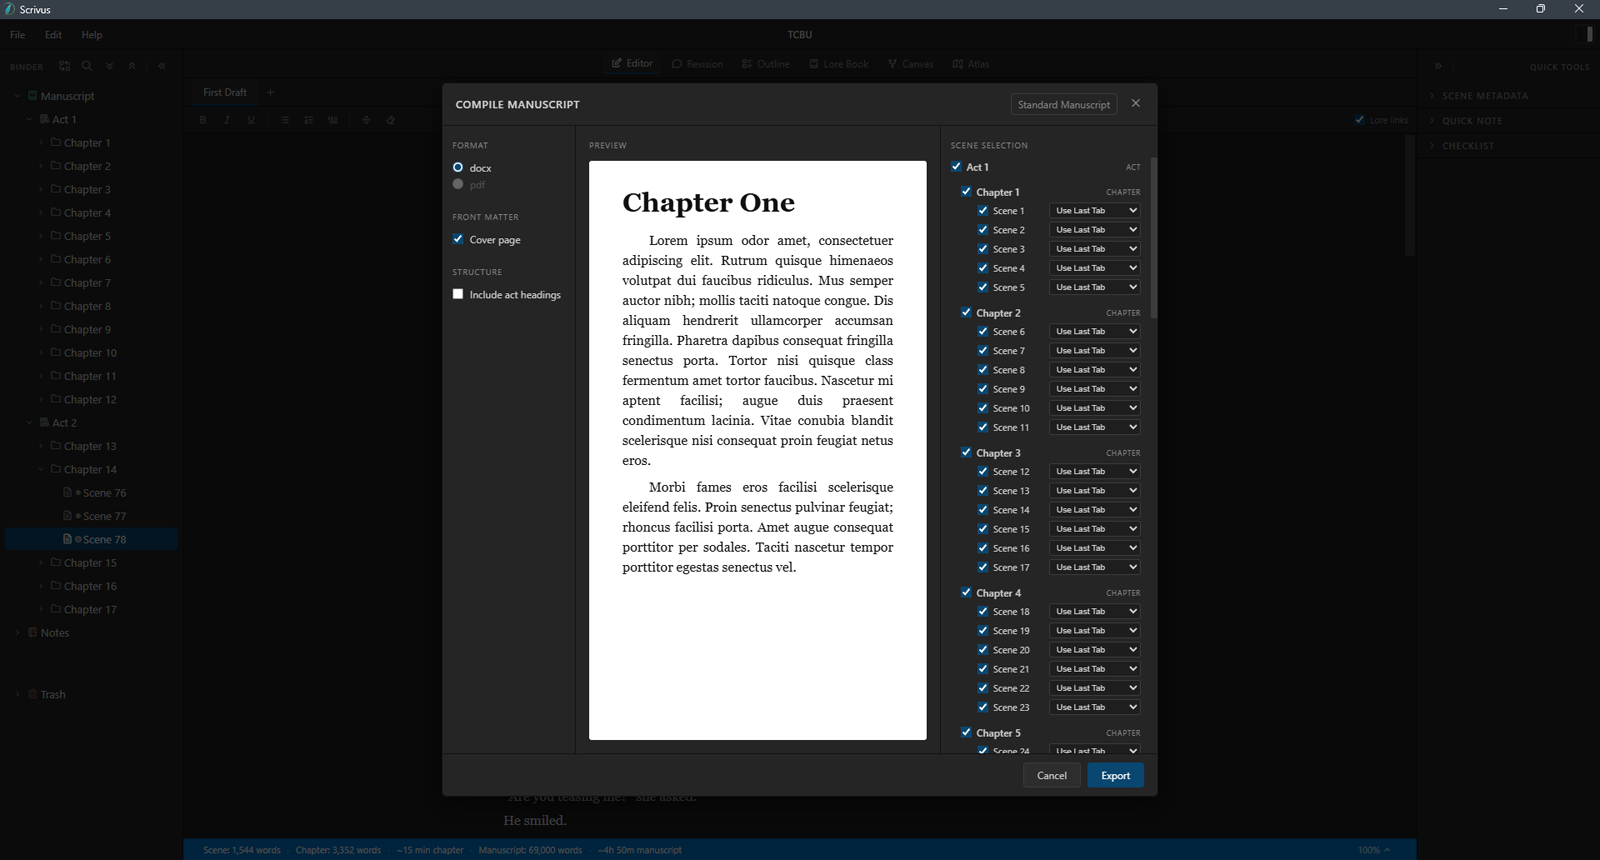
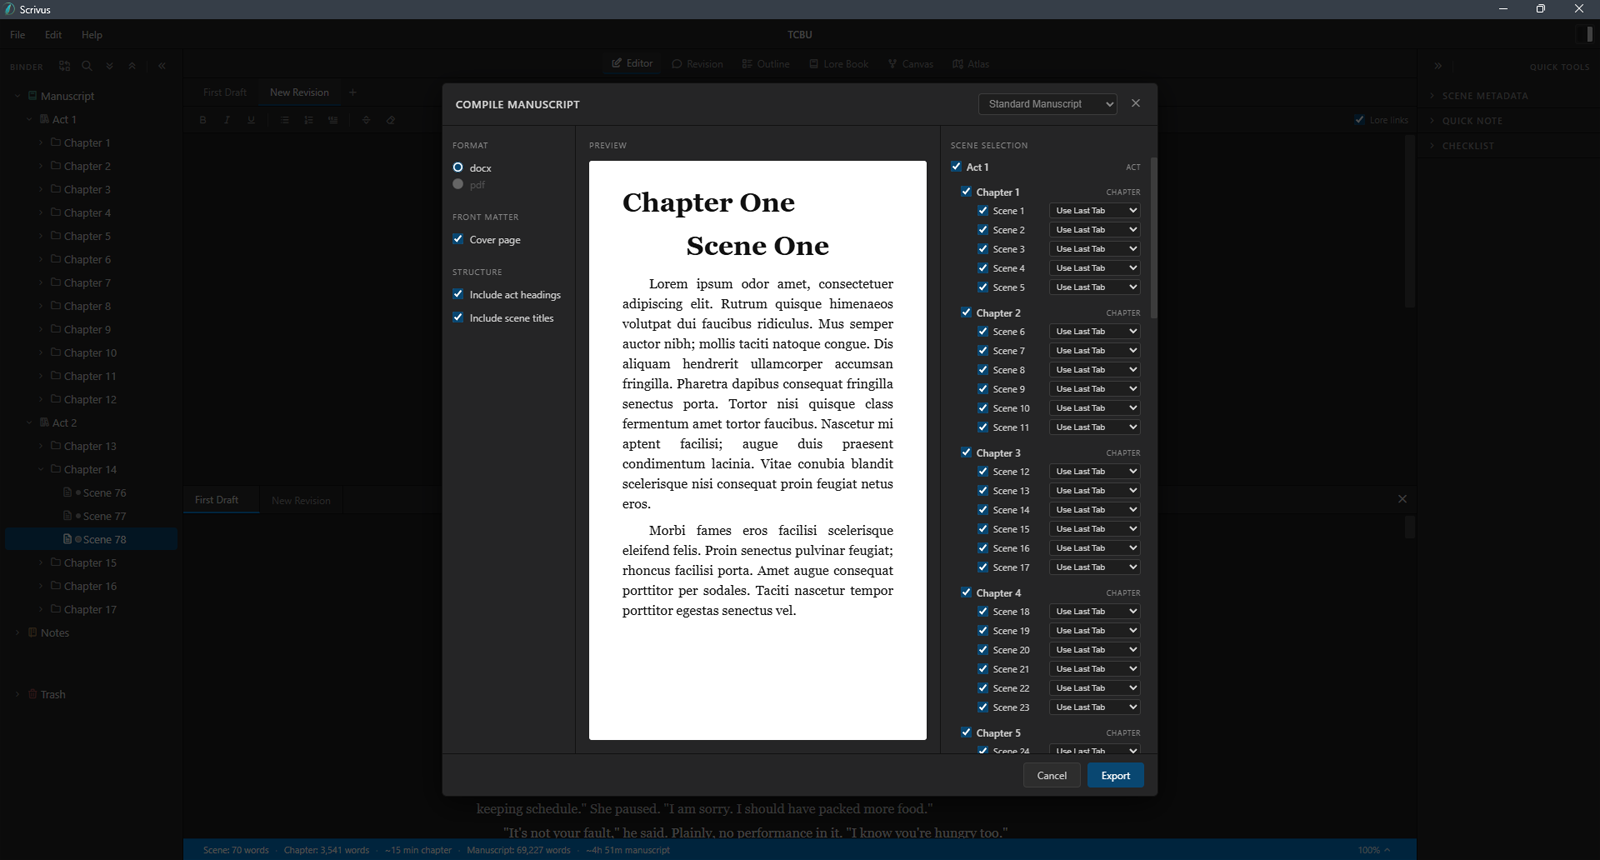
Update README
- Updated readme to include split-view, compile options, and Word document import.

diff --git a/README.md b/README.md
@@ -13,13 +13,15 @@ Watch a quick overview of what Scrivus can do: [Scrivus video demo](https://www.
 ## Features
 
 - Draft manuscripts in a focused rich-text editor with formatting controls for prose, lists, block quotes, scene breaks, and underline.
+- Compare drafts in a horizontal split-view reference pane while editing another draft version.
 - Organize chapters, scenes, notes, and folders in a binder with drag-and-drop, multi-select actions, trash, restore, and duplicate tools.
 - Track scene metadata including status, POV, location, timeline, tags, and synopsis.
 - Review manuscript structure in the Outline workspace with chapter and scene rows, word counts, and editable scene status.
 - Plan visually with Canvas, a freeform board for ideas, scenes, characters, locations, notes, labels, and connections.
 - Build a Lore Book with custom categories, reusable templates, image fields, keywords, and editor lore-link highlights.
 - Manage maps in Atlas with imported map images, multiple maps, zooming, panning, marker labels, marker types, and visibility levels.
-- Compile selected manuscript content to `.docx`, with optional front matter and manuscript style presets.
+- Compile selected manuscript content to `.docx`, with optional front matter, scene titles, Standard Manuscript styling, and Proof Copy styling.
+- Import a `.docx` manuscript into a new Scrivus project, splitting Act, Chapter, and Scene headings into manuscript structure.
 - Keep project backups with configurable retention, manual backup, and restore flows.
 - Use global themes, recent projects, project compatibility checks, recovery options, and update checks from GitHub Releases.
 
@@ -30,6 +32,10 @@ Watch a quick overview of what Scrivus can do: [Scrivus video demo](https://www.
 The Editor workspace is the main drafting surface. It pairs the binder, scene tabs, formatting toolbar, manuscript editor, inspector, scene metadata, spellcheck, and optional lore-link highlights.
 
 ![Editor with binder and inspector](docs/screenshots/editor-full.png)
+
+When a scene has multiple draft tabs, the Editor can open a read-only split-view reference pane. This lets you edit the active draft while viewing another draft below it, with comment highlights available as hover previews.
+
+![Editor split-view reference pane](docs/screenshots/split-view.png)
 
 ### Outline
 
@@ -57,13 +63,15 @@ Atlas keeps maps inside the project. Import a map image, place markers, choose m
 
 ### Compile
 
-The compile flow lets you choose which chapters and scenes to export, include optional front matter, and generate a `.docx` manuscript.
+The compile flow lets you choose which chapters and scenes to export, include optional front matter, optionally include scene titles, and generate a `.docx` manuscript. Standard Manuscript uses the project styles configured in Scrivus. Proof Copy exports a monospaced, double-spaced, justified manuscript with first-line indents and proof-style headings.
 
 ![Compile dialog](docs/screenshots/compile.png)
 
 ## Project Format
 
 New projects are created as `.scrivus` project folders. A project contains `project.json`, scene files, Canvas data, Atlas data, Lore Book data, managed images, and backups.
+
+Scrivus can also create a new project from a Word `.docx` manuscript. During import, headings such as `Act X`, `Chapter X`, and `Scene X` are converted into Scrivus folders and scenes. Supported Word formatting includes bold, italic, underline, bulleted lists, and numbered lists.
 
 Scrivus includes project metadata with both the Scrivus app version and a project format version. If a project was created by a newer incompatible version, Scrivus warns before opening it.
 